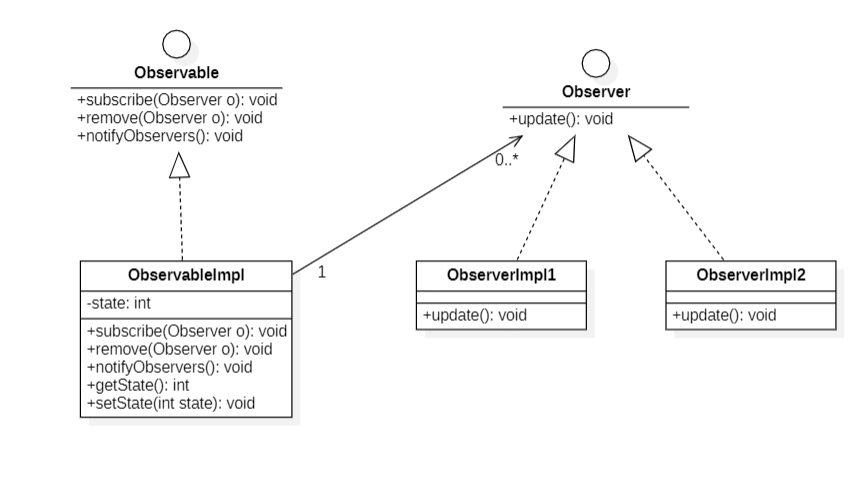
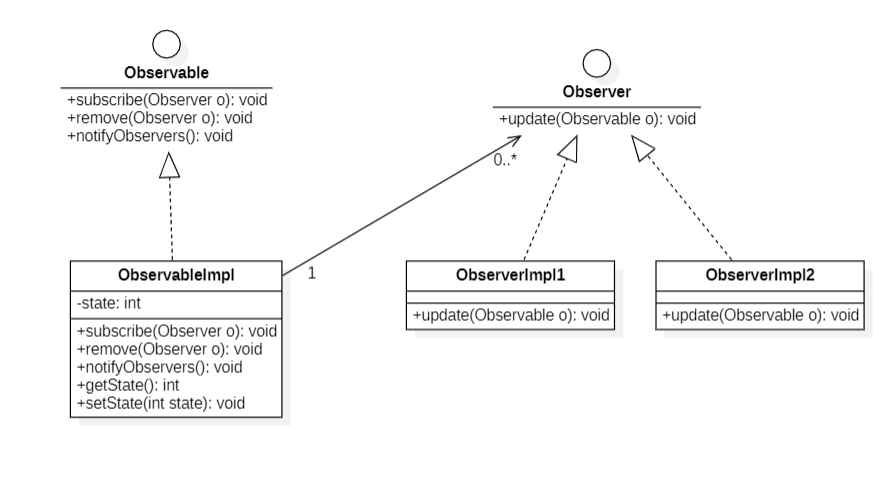
pull method

diff --git a/src/main/java/elhanchir/mohamed/Main.java b/src/main/java/elhanchir/mohamed/Main.java
@@ -1,9 +1,6 @@
 package elhanchir.mohamed;
 
-import elhanchir.mohamed.observer.ObservableImpl;
-import elhanchir.mohamed.observer.Observer;
-import elhanchir.mohamed.observer.ObserverImpl1;
-import elhanchir.mohamed.observer.ObserverImpl2;
+import elhanchir.mohamed.observer.*;
 
 import java.util.ArrayList;
 import java.util.List;
@@ -29,11 +26,14 @@ public class Main {
         observable.addObserver(new Observer() {
             private final List<Integer> history = new ArrayList<>();
             @Override
-            public void update(int value) {
-                history.add(value);
-                System.out.println("************ OBSERVER 3 ************");
-                System.out.println("State SUM: " + history.stream().mapToInt(Integer::intValue).sum());
-                System.out.println("************************************");
+            public void update(Observable observable) {
+                if (observable instanceof ObservableImpl) {
+                    int value = ((ObservableImpl) observable).getValue();
+                    System.out.println("************ OBSERVER 3 ************");
+                    history.add(value);
+                    System.out.println("State AVG: " + history.stream().mapToInt(Integer::intValue).average().orElse(0));
+                    System.out.println("************************************");
+                }
             }
         });
 
@@ -41,10 +41,13 @@ public class Main {
         observable.setValue(12);
 
         //Observable est une interface fonctionnelle donc on peut utiliser une lambda expression
-        observable.addObserver(value -> {
-            System.out.println("************ OBSERVER 4 ************");
-            System.out.println("Value: " + value);
-            System.out.println("************************************");
+        observable.addObserver(observable1 -> {
+            if (observable1 instanceof ObservableImpl) {
+                int value = ((ObservableImpl) observable1).getValue();
+                System.out.println("************ OBSERVER 4 ************");
+                System.out.println("Value: " + value);
+                System.out.println("************************************");
+            }
         });
 
         observable.setValue(13);

diff --git a/src/main/java/elhanchir/mohamed/observer/ObserverImpl2.java b/src/main/java/elhanchir/mohamed/observer/ObserverImpl2.java
@@ -8,10 +8,13 @@ public class ObserverImpl2 implements Observer {
     private List<Integer> history=new ArrayList<>();
 
     @Override
-    public void update(int value) {
-        System.out.println("************ OBSERVER 2 ************");
-        history.add(value);
-        System.out.println("State AVG: " + history.stream().mapToInt(Integer::intValue).average().orElse(0));
-        System.out.println("************************************");
+    public void update(Observable observable) {
+        if (observable instanceof ObservableImpl) {
+            int value = ((ObservableImpl) observable).getValue();
+            System.out.println("************ OBSERVER 2 ************");
+            history.add(value);
+            System.out.println("State AVG: " + history.stream().mapToInt(Integer::intValue).average().orElse(0));
+            System.out.println("************************************");
+        }
     }
 }

diff --git a/src/main/java/elhanchir/mohamed/observer/ObserverImpl1.java b/src/main/java/elhanchir/mohamed/observer/ObserverImpl1.java
@@ -2,9 +2,13 @@ package elhanchir.mohamed.observer;
 
 public class ObserverImpl1 implements Observer {
     @Override
-    public void update(int value) {
-        System.out.println("************ OBSERVER 1 ************");
-        System.out.println("Value: " + value);
-        System.out.println("************************************");
+    public void update(Observable observable) {
+        if(observable instanceof ObservableImpl) {
+            int value = ((ObservableImpl) observable).getValue();
+            System.out.println("************ OBSERVER 1 ************");
+            System.out.println("Value: " + value);
+            System.out.println("************************************");
+        }
+
     }
 }

diff --git a/src/main/java/elhanchir/mohamed/observer/ObservableImpl.java b/src/main/java/elhanchir/mohamed/observer/ObservableImpl.java
@@ -21,7 +21,7 @@ public class ObservableImpl implements Observable {
     @Override
     public void notifyObservers() {
         for (Observer observer : observers) {
-            observer.update(value);
+            observer.update(this);
         }
     }
 

diff --git a/src/main/java/elhanchir/mohamed/observer/Observable.java b/src/main/java/elhanchir/mohamed/observer/Observable.java
@@ -1,5 +1,7 @@
 package elhanchir.mohamed.observer;
 
+
+//Subject
 public interface Observable {
     void addObserver(Observer observer);
     void removeObserver(Observer observer);

diff --git a/src/main/java/elhanchir/mohamed/observer/Observer.java b/src/main/java/elhanchir/mohamed/observer/Observer.java
@@ -1,5 +1,5 @@
 package elhanchir.mohamed.observer;
 
 public interface Observer {
-    void update(int value);
+    void update(Observable observable);
 }
